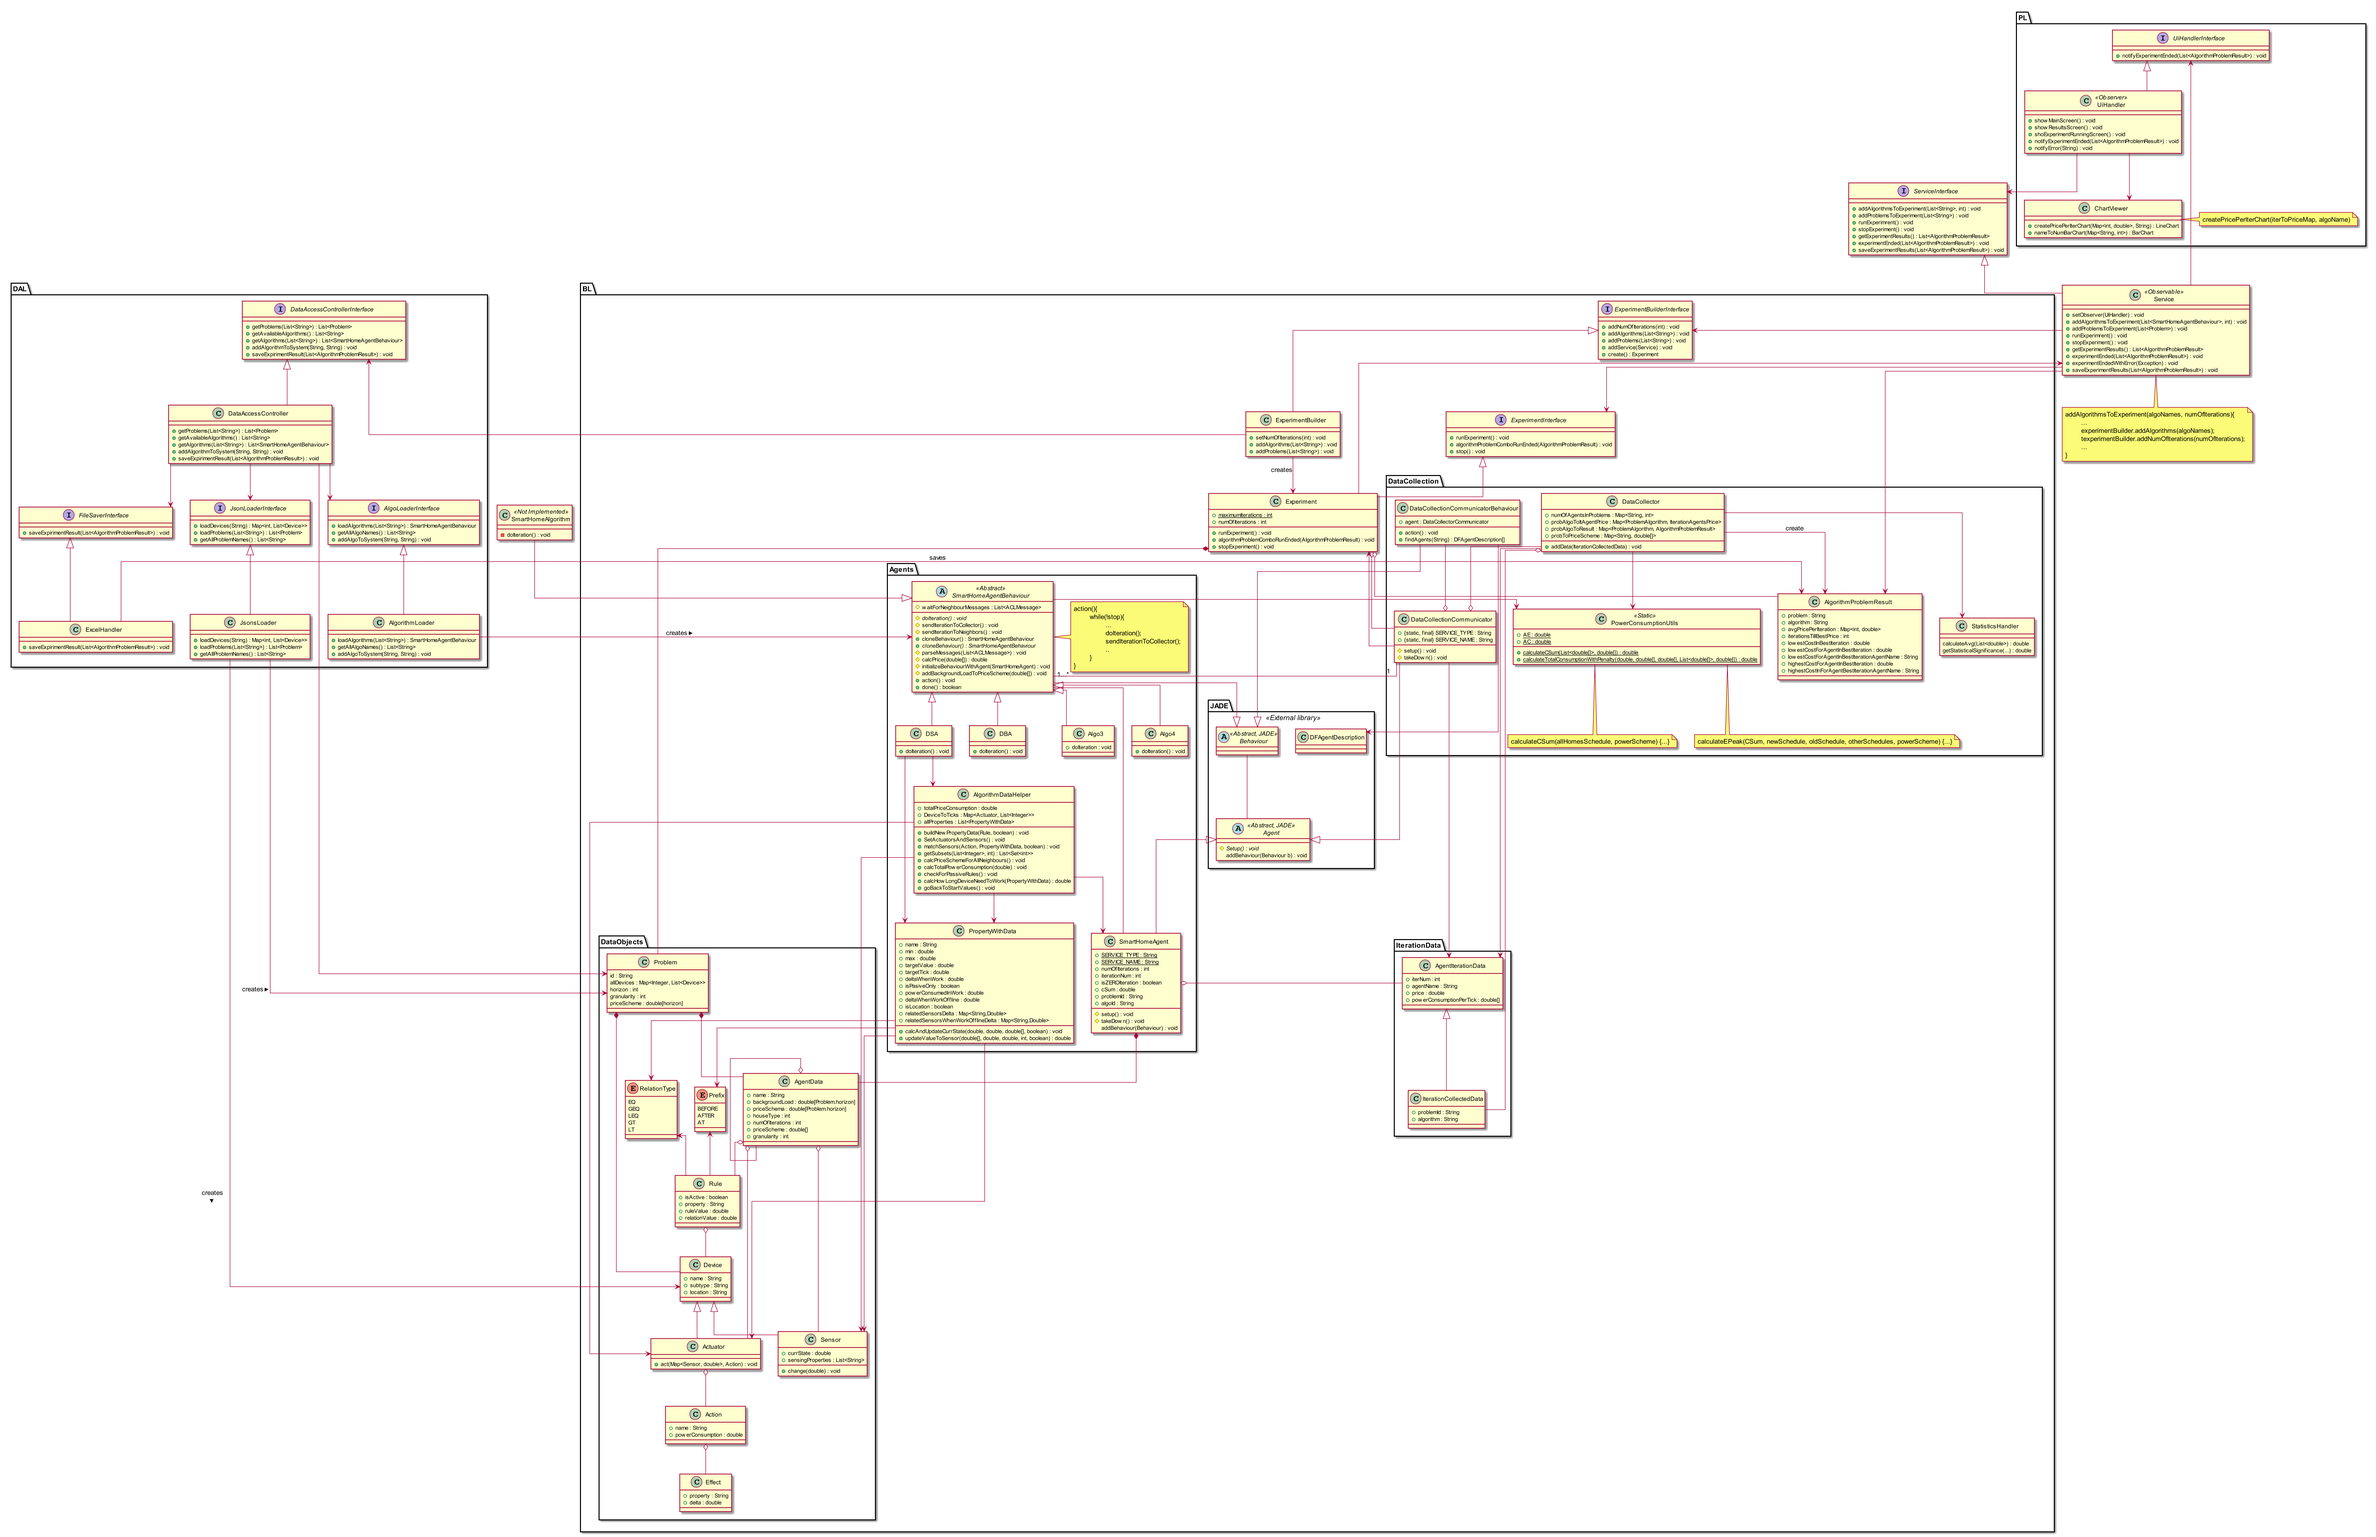
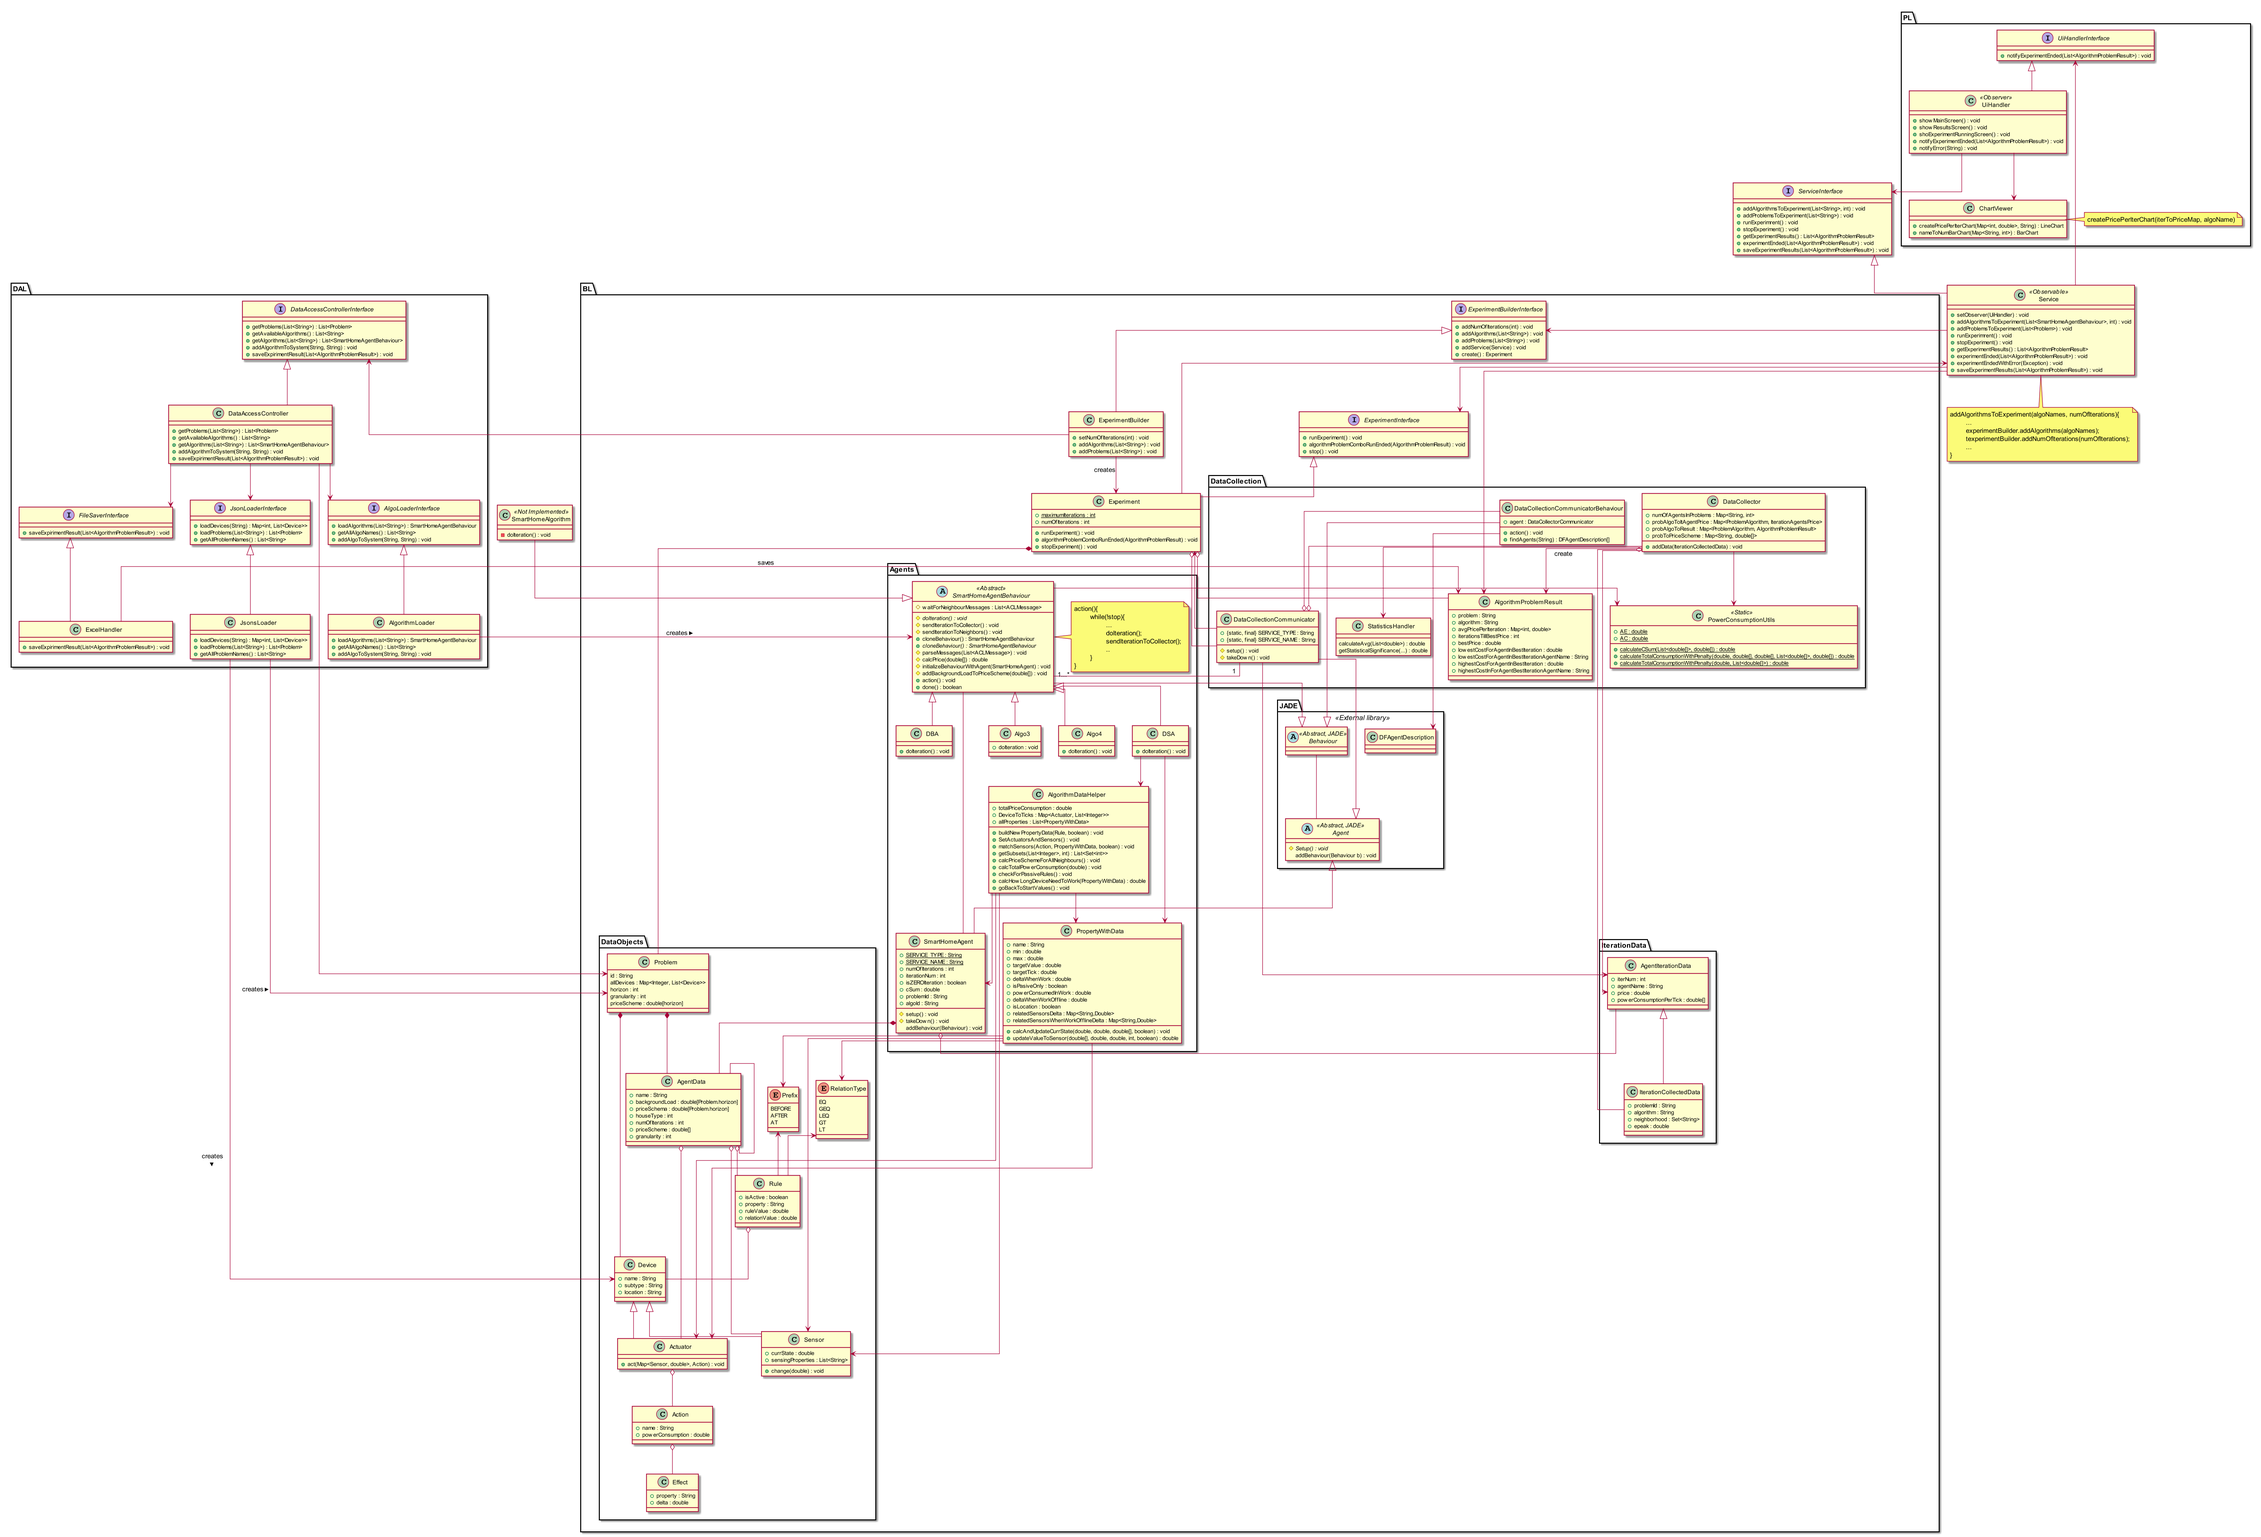
Renamed Problems package to DataObjects

diff --git a/Final/src/main/java/FinalProject/BL/Agents/AlgorithmDataHelper.java b/Final/src/main/java/FinalProject/BL/Agents/AlgorithmDataHelper.java
@@ -1,15 +1,11 @@
 package FinalProject.BL.Agents;
 
 import FinalProject.BL.IterationData.AgentIterationData;
-import FinalProject.BL.Problems.*;
+import FinalProject.BL.DataObjects.*;
 import org.apache.log4j.Logger;
 
 import java.util.*;
-import java.util.concurrent.ConcurrentHashMap;
-import java.util.function.Function;
-import java.util.function.Predicate;
 import java.util.stream.Collectors;
-import java.util.stream.IntStream;
 
 import static FinalProject.BL.DataCollection.PowerConsumptionUtils.calculateTotalConsumptionWithPenalty;
 

diff --git a/Final/src/main/java/FinalProject/BL/Experiment.java b/Final/src/main/java/FinalProject/BL/Experiment.java
@@ -4,8 +4,8 @@ import FinalProject.BL.Agents.SmartHomeAgent;
 import FinalProject.BL.Agents.SmartHomeAgentBehaviour;
 import FinalProject.BL.DataCollection.AlgorithmProblemResult;
 import FinalProject.BL.DataCollection.DataCollectionCommunicator;
-import FinalProject.BL.Problems.AgentData;
-import FinalProject.BL.Problems.Problem;
+import FinalProject.BL.DataObjects.AgentData;
+import FinalProject.BL.DataObjects.Problem;
 import FinalProject.Service;
 import jade.core.Profile;
 import jade.core.ProfileImpl;

diff --git a/Final/src/test/java/FinalProject/Experiment/TestAgentsWaitingForNeighbours.java b/Final/src/test/java/FinalProject/Experiment/TestAgentsWaitingForNeighbours.java
@@ -7,8 +7,8 @@ import FinalProject.BL.DataCollection.DataCollectionCommunicator;
 import FinalProject.BL.DataCollection.DataCollectionCommunicatorBehaviour;
 import FinalProject.BL.Experiment;
 import FinalProject.BL.IterationData.IterationCollectedData;
-import FinalProject.BL.Problems.AgentData;
-import FinalProject.BL.Problems.Problem;
+import FinalProject.BL.DataObjects.AgentData;
+import FinalProject.BL.DataObjects.Problem;
 import FinalProject.DAL.*;
 import jade.core.AID;
 import jade.core.Agent;

diff --git a/Final/src/main/java/FinalProject/BL/Agents/PropertyWithData.java b/Final/src/main/java/FinalProject/BL/Agents/PropertyWithData.java
@@ -1,9 +1,9 @@
 package FinalProject.BL.Agents;
 
-import FinalProject.BL.Problems.Actuator;
-import FinalProject.BL.Problems.Prefix;
-import FinalProject.BL.Problems.RelationType;
-import FinalProject.BL.Problems.Sensor;
+import FinalProject.BL.DataObjects.Actuator;
+import FinalProject.BL.DataObjects.Prefix;
+import FinalProject.BL.DataObjects.RelationType;
+import FinalProject.BL.DataObjects.Sensor;
 import org.apache.log4j.Logger;
 
 import java.util.ArrayList;

diff --git a/Final/src/main/java/FinalProject/Service.java b/Final/src/main/java/FinalProject/Service.java
@@ -4,7 +4,7 @@ import FinalProject.BL.Agents.SmartHomeAgentBehaviour;
 import FinalProject.BL.DataCollection.AlgorithmProblemResult;
 import FinalProject.BL.Experiment;
 import FinalProject.BL.ExperimentBuilder;
-import FinalProject.BL.Problems.Problem;
+import FinalProject.BL.DataObjects.Problem;
 import FinalProject.DAL.DataAccessControllerInterface;
 import FinalProject.PL.UiHandlerInterface;
 import org.apache.log4j.Logger;

diff --git a/Final/src/test/java/FinalProject/ServiceTest.java b/Final/src/test/java/FinalProject/ServiceTest.java
@@ -3,7 +3,7 @@ package FinalProject;
 import FinalProject.BL.Agents.DSA;
 import FinalProject.BL.Agents.SmartHomeAgentBehaviour;
 import FinalProject.BL.DataCollection.AlgorithmProblemResult;
-import FinalProject.BL.Problems.Problem;
+import FinalProject.BL.DataObjects.Problem;
 import FinalProject.DAL.DalTestUtils;
 import FinalProject.DAL.DataAccessController;
 import FinalProject.DAL.DataAccessControllerInterface;

diff --git a/Final/src/main/java/FinalProject/BL/Agents/DSA.java b/Final/src/main/java/FinalProject/BL/Agents/DSA.java
@@ -2,7 +2,7 @@ package FinalProject.BL.Agents;
 import FinalProject.BL.Experiment;
 import FinalProject.BL.IterationData.AgentIterationData;
 import FinalProject.BL.IterationData.IterationCollectedData;
-import FinalProject.BL.Problems.*;
+import FinalProject.BL.DataObjects.*;
 import FinalProject.Utils;
 import jade.lang.acl.ACLMessage;
 import org.apache.log4j.Logger;

diff --git a/Final/src/main/java/FinalProject/BL/Agents/SmartHomeAgent.java b/Final/src/main/java/FinalProject/BL/Agents/SmartHomeAgent.java
@@ -2,7 +2,7 @@ package FinalProject.BL.Agents;
 
 import FinalProject.BL.DataCollection.DataCollectionCommunicator;
 import FinalProject.BL.IterationData.AgentIterationData;
-import FinalProject.BL.Problems.AgentData;
+import FinalProject.BL.DataObjects.AgentData;
 import jade.core.AID;
 import jade.core.Agent;
 import jade.domain.DFService;

diff --git a/Final/src/test/java/FinalProject/BL/ExperimentBuilderTest.java b/Final/src/test/java/FinalProject/BL/ExperimentBuilderTest.java
@@ -1,7 +1,7 @@
 package FinalProject.BL;
 
 import FinalProject.BL.Agents.SmartHomeAgentBehaviour;
-import FinalProject.BL.Problems.Problem;
+import FinalProject.BL.DataObjects.Problem;
 import FinalProject.Service;
 import org.junit.After;
 import org.junit.Assert;

diff --git a/Final/src/main/java/FinalProject/DAL/JsonLoaderInterface.java b/Final/src/main/java/FinalProject/DAL/JsonLoaderInterface.java
@@ -1,7 +1,7 @@
 package FinalProject.DAL;
 
-import FinalProject.BL.Problems.Device;
-import FinalProject.BL.Problems.Problem;
+import FinalProject.BL.DataObjects.Device;
+import FinalProject.BL.DataObjects.Problem;
 
 import java.util.List;
 import java.util.Map;

diff --git a/Final/src/main/java/FinalProject/BL/ExperimentBuilder.java b/Final/src/main/java/FinalProject/BL/ExperimentBuilder.java
@@ -1,7 +1,7 @@
 package FinalProject.BL;
 
 import FinalProject.BL.Agents.SmartHomeAgentBehaviour;
-import FinalProject.BL.Problems.Problem;
+import FinalProject.BL.DataObjects.Problem;
 import FinalProject.Service;
 
 import java.util.List;

diff --git a/Final/src/main/java/FinalProject/DAL/DataAccessController.java b/Final/src/main/java/FinalProject/DAL/DataAccessController.java
@@ -1,7 +1,7 @@
 package FinalProject.DAL;
 
 import FinalProject.BL.Agents.SmartHomeAgentBehaviour;
-import FinalProject.BL.Problems.Problem;
+import FinalProject.BL.DataObjects.Problem;
 
 import java.io.IOException;
 import java.util.List;
